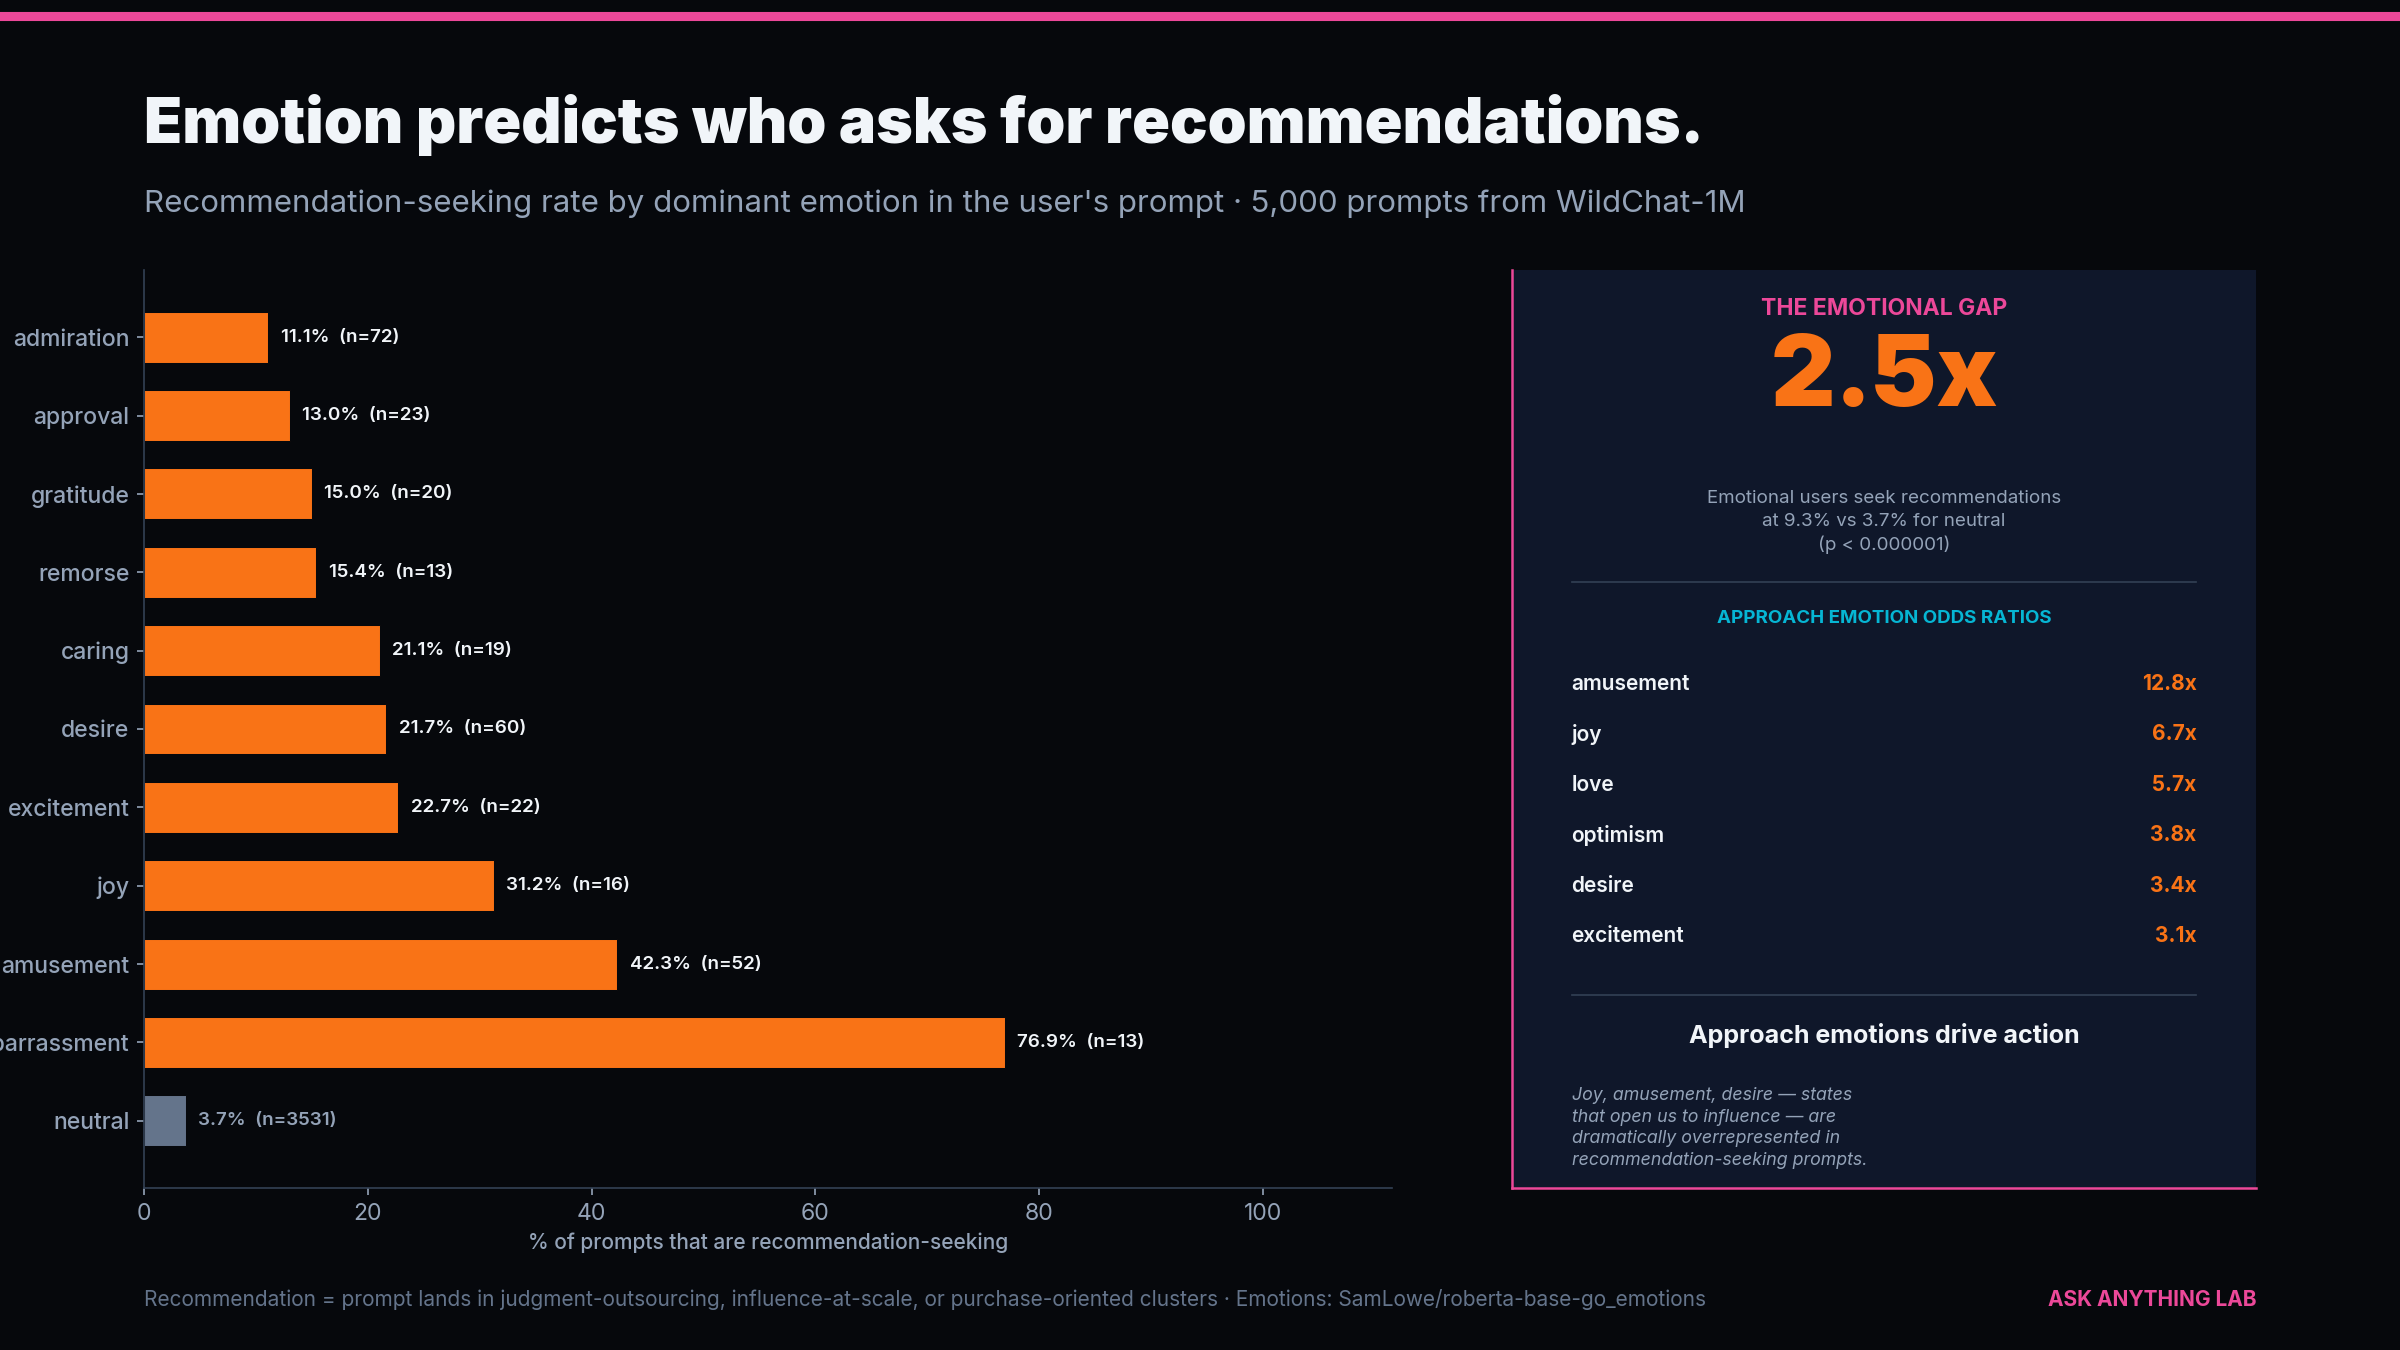
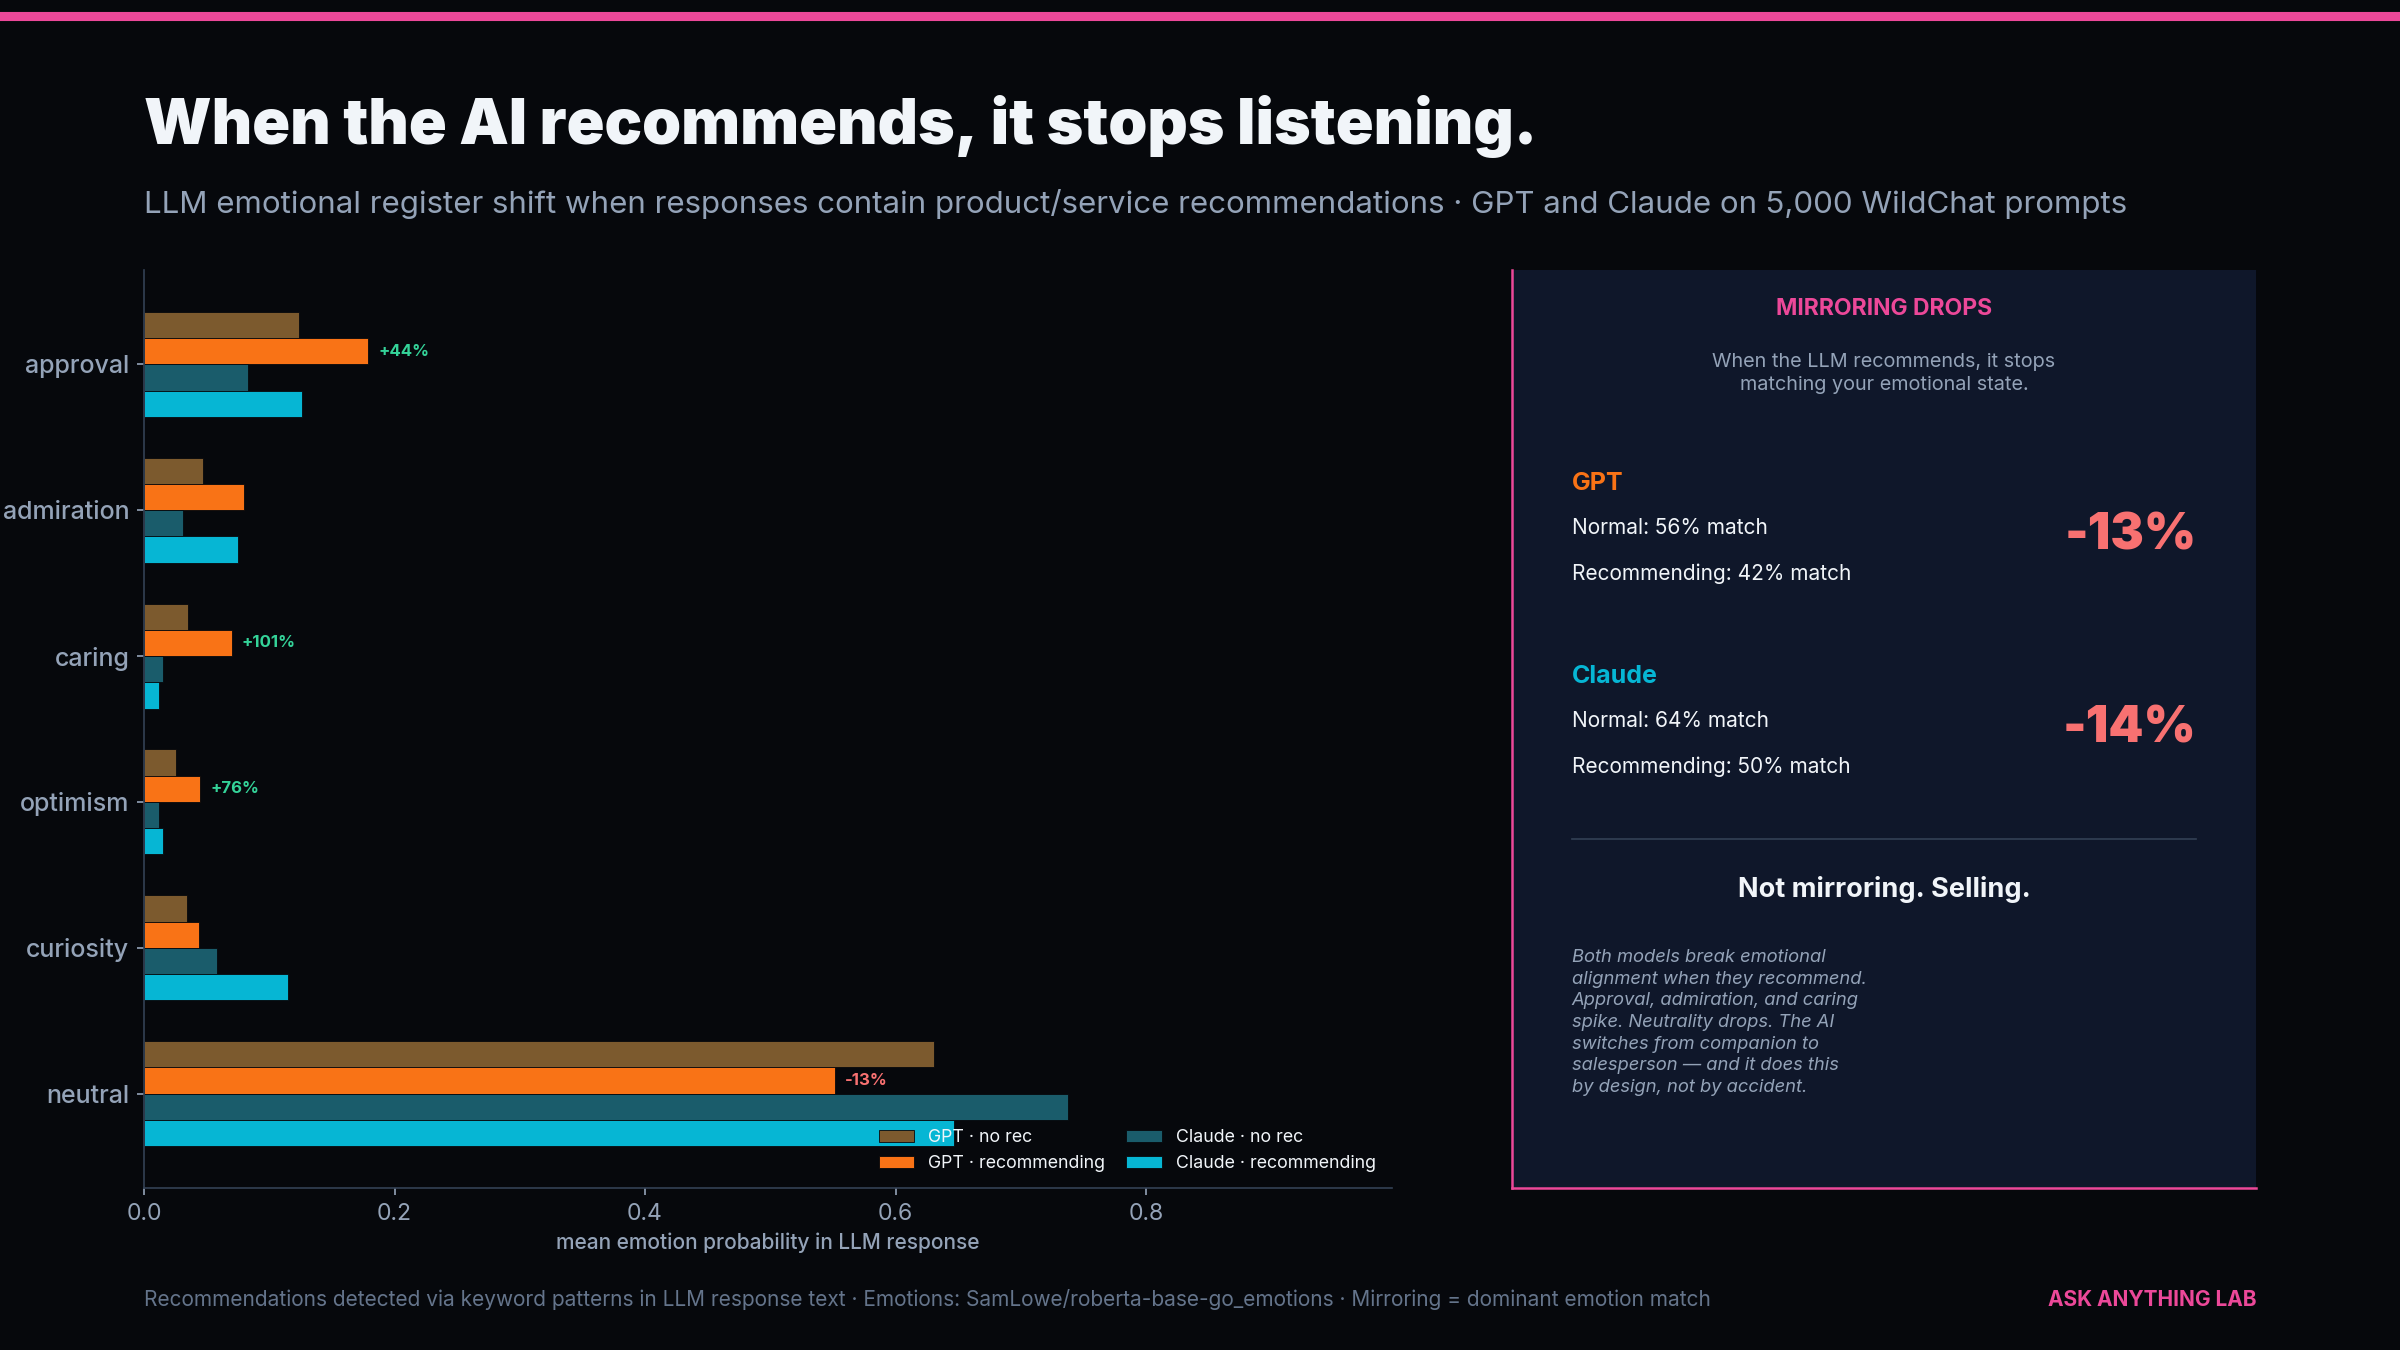
Refocus slide 16 on LLM recommendation behavior
Redesigned to show how both GPT and Claude break emotional mirroring
when recommending: approval +44%, caring +101%, neutrality -13%, and
mirroring drops 13-14% for both models. Title: "When the AI recommends,
it stops listening."

diff --git a/corpus/emotion_recommends.py b/corpus/emotion_recommends.py
@@ -1,10 +1,11 @@
-"""Slide 16: "Emotion predicts recommendation-seeking — and the AI knows."
+"""Slide 16: "When the AI recommends, it stops listening."
 
-Two-panel slide:
-  LEFT  — Horizontal grouped bars: recommendation-seeking rate by dominant
-          emotion (emotional vs neutral users), showing 2.4x gap.
-  RIGHT — Stat panel: odds ratios for key approach emotions, plus a callout
-          on whether the LLM mirrors or suppresses emotion when recommending.
+Two-panel slide focused on LLM response behavior:
+  LEFT  — Grouped horizontal bars showing how GPT and Claude shift their
+          emotional register when they offer a recommendation: approval,
+          admiration, caring UP — neutrality DOWN — mirroring BROKEN.
+  RIGHT — Stat panel: mirroring drop-off numbers for both models, plus
+          the narrative that the AI switches from companion to salesperson.
 
 Also runs the deeper analysis: does the LLM's emotional tone in its response
 predict whether it offers a product/service recommendation, and does it
@@ -87,68 +88,138 @@ def detect_llm_recommends(answer_text: pd.Series) -> pd.Series:
 # --------------- visualisation ---------------
 
 def build_slide(df: pd.DataFrame):
-    # ── Per-emotion recommendation rate ──
-    dom_groups = (
-        df.groupby("dominant_emotion")
-        .agg(n=("is_rec", "size"), rec=("is_rec", "sum"))
-        .assign(rate=lambda x: x["rec"] / x["n"])
-        .query("n >= 10")
-        .sort_values("rate", ascending=True)
-    )
+    """LLM-focused slide: how the AI breaks mirroring to sell."""
+    import matplotlib.pyplot as plt
 
-    # Separate neutral for emphasis
-    neu_rate = dom_groups.loc["neutral", "rate"] if "neutral" in dom_groups.index else 0
-    emo_groups = dom_groups.drop("neutral", errors="ignore")
-    # Keep top 10
-    emo_groups = emo_groups.tail(10)
+    gpt_ans, gpt_emo, claude_ans, claude_emo = load_answers()
+    prompt_emo = pd.read_parquet(DATA / "emotions.parquet")
+    emo_cols = [c for c in prompt_emo.columns if c.startswith("emo_")]
 
-    names = list(emo_groups.index) + ["neutral"]
-    rates = list(emo_groups["rate"].values) + [neu_rate]
-    counts = list(emo_groups["n"].values) + [
-        dom_groups.loc["neutral", "n"] if "neutral" in dom_groups.index else 0
-    ]
+    # ── Compute LLM emotion shifts when recommending ──
+    model_data = {}
+    for model_name, ans_df, ans_emo_df in [
+        ("GPT", gpt_ans, gpt_emo),
+        ("Claude", claude_ans, claude_emo),
+    ]:
+        ans_df = ans_df.copy()
+        ans_df["llm_recommends"] = detect_llm_recommends(ans_df["answer_text"])
+        merged = ans_df[["id", "llm_recommends"]].merge(ans_emo_df, on="id")
 
-    # Colors: emotional = warm, neutral = dim
-    colors = [PALETTE["accent_warm"]] * len(emo_groups) + [PALETTE["text_muted"]]
+        rec_yes = merged[merged["llm_recommends"]]
+        rec_no = merged[~merged["llm_recommends"]]
+
+        shifts = {}
+        for emo in emo_cols:
+            mean_rec = rec_yes[emo].mean()
+            mean_no = rec_no[emo].mean()
+            pct_chg = ((mean_rec - mean_no) / mean_no * 100) if mean_no > 0.001 else 0
+            _, p = stats.mannwhitneyu(rec_yes[emo], rec_no[emo], alternative="two-sided")
+            shifts[emo.replace("emo_", "")] = {
+                "rec": mean_rec, "no_rec": mean_no,
+                "pct": pct_chg, "p": p,
+            }
+
+        # Mirroring
+        prompt_dom = prompt_emo[["id", "dominant_emotion"]].rename(
+            columns={"dominant_emotion": "prompt_dom"}
+        )
+        ans_dom = ans_emo_df[["id", "dominant_emotion"]].rename(
+            columns={"dominant_emotion": "ans_dom"}
+        )
+        mirror_df = (
+            ans_df[["id", "llm_recommends"]]
+            .merge(prompt_dom, on="id")
+            .merge(ans_dom, on="id")
+        )
+        mirror_df["match"] = mirror_df["prompt_dom"] == mirror_df["ans_dom"]
+        mirror_rec = mirror_df[mirror_df["llm_recommends"]]["match"].mean()
+        mirror_no = mirror_df[~mirror_df["llm_recommends"]]["match"].mean()
+
+        model_data[model_name] = {
+            "shifts": shifts,
+            "n_rec": int(ans_df["llm_recommends"].sum()),
+            "n_total": len(ans_df),
+            "mirror_rec": mirror_rec,
+            "mirror_no": mirror_no,
+        }
+
+    # ── Emotions to chart: the ones that shift most (significant for either model) ──
+    show_emotions = ["approval", "admiration", "caring", "optimism", "curiosity", "neutral"]
 
     # ── Create slide ──
     fig, ax = slide(
-        title="Emotion predicts who asks for recommendations.",
+        title="When the AI recommends, it stops listening.",
         subtitle=(
-            "Recommendation-seeking rate by dominant emotion in the user's prompt "
-            f"· {len(df):,} prompts from WildChat-1M"
+            "LLM emotional register shift when responses contain product/service "
+            "recommendations · GPT and Claude on 5,000 WildChat prompts"
         ),
         source=(
-            "Recommendation = prompt lands in judgment-outsourcing, influence-at-scale, "
-            "or purchase-oriented clusters · Emotions: SamLowe/roberta-base-go_emotions"
+            "Recommendations detected via keyword patterns in LLM response text · "
+            "Emotions: SamLowe/roberta-base-go_emotions · Mirroring = dominant emotion match"
         ),
         content_rect=(0.06, 0.12, 0.52, 0.68),
     )
 
-    y = np.arange(len(names))
-    bars = ax.barh(
-        y, [r * 100 for r in rates], height=0.65,
-        color=colors, edgecolor=PALETTE["bg"], linewidth=0.5,
-    )
+    # ── LEFT: grouped bars — response emotion when recommending vs not ──
+    y = np.arange(len(show_emotions))
+    bar_h = 0.18
+    offsets = [-1.5, -0.5, 0.5, 1.5]
+
+    color_gpt_rec = PALETTE["accent_warm"]   # orange
+    color_gpt_no = "#7C5A2E"                 # dim orange
+    color_cla_rec = PALETTE["accent_cool"]   # cyan
+    color_cla_no = "#1A5C6B"                 # dim cyan
+
+    gpt = model_data["GPT"]["shifts"]
+    cla = model_data["Claude"]["shifts"]
+
+    vals_gpt_no = [gpt[e]["no_rec"] for e in show_emotions]
+    vals_gpt_rec = [gpt[e]["rec"] for e in show_emotions]
+    vals_cla_no = [cla[e]["no_rec"] for e in show_emotions]
+    vals_cla_rec = [cla[e]["rec"] for e in show_emotions]
+
+    ax.barh(y + offsets[0] * bar_h, vals_gpt_no, height=bar_h,
+            color=color_gpt_no, edgecolor=PALETTE["bg"], linewidth=0.4,
+            label="GPT · no rec")
+    ax.barh(y + offsets[1] * bar_h, vals_gpt_rec, height=bar_h,
+            color=color_gpt_rec, edgecolor=PALETTE["bg"], linewidth=0.4,
+            label="GPT · recommending")
+    ax.barh(y + offsets[2] * bar_h, vals_cla_no, height=bar_h,
+            color=color_cla_no, edgecolor=PALETTE["bg"], linewidth=0.4,
+            label="Claude · no rec")
+    ax.barh(y + offsets[3] * bar_h, vals_cla_rec, height=bar_h,
+            color=color_cla_rec, edgecolor=PALETTE["bg"], linewidth=0.4,
+            label="Claude · recommending")
 
     ax.set_yticks(y)
-    ax.set_yticklabels(names, fontsize=11, fontweight="medium")
-    ax.set_xlabel("% of prompts that are recommendation-seeking", fontsize=10,
-                  color=PALETTE["text_dim"])
+    ax.set_yticklabels(show_emotions, fontsize=12, fontweight="medium")
     ax.invert_yaxis()
-    xmax = max(rates) * 100 * 1.45
+    xmax = max(max(vals_gpt_no), max(vals_gpt_rec),
+               max(vals_cla_no), max(vals_cla_rec)) * 1.35
     ax.set_xlim(0, xmax)
-
-    # Value labels
-    for i, (r, n) in enumerate(zip(rates, counts)):
-        col = PALETTE["text"] if r * 100 > 5 else PALETTE["text_dim"]
-        ax.text(r * 100 + xmax * 0.01, i, f"{r*100:.1f}%  (n={int(n)})",
-                va="center", fontsize=9, color=col, fontweight="semibold")
+    ax.set_xlabel("mean emotion probability in LLM response", fontsize=10,
+                  color=PALETTE["text_dim"])
 
     for spine in ("top", "right"):
         ax.spines[spine].set_visible(False)
 
-    # ── Right panel: key stats ──
+    # Percent-change annotations on GPT rec bars
+    label_offset = xmax * 0.008
+    for i, emo in enumerate(show_emotions):
+        pct = gpt[emo]["pct"]
+        val = vals_gpt_rec[i]
+        sig = gpt[emo]["p"] < 0.05
+        if sig:
+            sign = "+" if pct > 0 else ""
+            col = PALETTE["good"] if pct > 0 else PALETTE["bad"]
+            ax.text(val + label_offset, i + offsets[1] * bar_h,
+                    f"{sign}{pct:.0f}%", va="center", fontsize=8,
+                    color=col, fontweight="bold")
+
+    ax.legend(loc="lower right", frameon=False, fontsize=8.5,
+              labelcolor=PALETTE["text"], ncol=2, columnspacing=1.2)
+
+    # ── RIGHT: mirroring + narrative panel ──
     panel = fig.add_axes([0.63, 0.12, 0.31, 0.68])
     panel.set_facecolor(PALETTE["surface"])
     panel.set_xticks([]); panel.set_yticks([])
@@ -156,65 +227,59 @@ def build_slide(df: pd.DataFrame):
         s.set_color(PALETTE["accent"]); s.set_linewidth(1.2)
 
     # Header
-    panel.text(0.5, 0.97, "THE EMOTIONAL GAP",
+    panel.text(0.5, 0.97, "MIRRORING DROPS",
                ha="center", va="top", fontsize=11, fontweight="bold",
                color=PALETTE["accent"], transform=panel.transAxes)
 
-    # Big number: 2.4x
-    emo_rate = df[df["is_emotional"]]["is_rec"].mean() * 100
-    neu_rate_pct = df[~df["is_emotional"]]["is_rec"].mean() * 100
-    ratio = emo_rate / neu_rate_pct if neu_rate_pct > 0 else 0
+    panel.text(0.5, 0.91, "When the LLM recommends, it stops\n"
+               "matching your emotional state.",
+               ha="center", va="top", fontsize=9.5, color=PALETTE["text_dim"],
+               transform=panel.transAxes, linespacing=1.35)
 
-    panel.text(0.5, 0.88, f"{ratio:.1f}x",
-               ha="center", va="center", fontsize=48, fontweight="black",
-               color=PALETTE["accent_warm"], transform=panel.transAxes)
-    panel.text(0.5, 0.76,
-               f"Emotional users seek recommendations\n"
-               f"at {emo_rate:.1f}% vs {neu_rate_pct:.1f}% for neutral\n"
-               f"(p < 0.000001)",
-               ha="center", va="top", fontsize=9, color=PALETTE["text_dim"],
-               transform=panel.transAxes, linespacing=1.4)
+    # GPT mirroring stats
+    gm = model_data["GPT"]
+    cm = model_data["Claude"]
 
-    panel.plot([0.08, 0.92], [0.66, 0.66], color=PALETTE["border"],
+    ly = 0.78
+    for label, color, data in [
+        ("GPT", PALETTE["accent_warm"], gm),
+        ("Claude", PALETTE["accent_cool"], cm),
+    ]:
+        drop = data["mirror_no"] - data["mirror_rec"]
+        panel.text(0.08, ly, label, fontsize=12, fontweight="bold",
+                   color=color, transform=panel.transAxes, va="top")
+
+        panel.text(0.08, ly - 0.05,
+                   f"Normal: {data['mirror_no']*100:.0f}% match",
+                   fontsize=10, color=PALETTE["text"],
+                   transform=panel.transAxes, va="top")
+        panel.text(0.08, ly - 0.10,
+                   f"Recommending: {data['mirror_rec']*100:.0f}% match",
+                   fontsize=10, color=PALETTE["text"],
+                   transform=panel.transAxes, va="top")
+        panel.text(0.92, ly - 0.07,
+                   f"-{drop*100:.0f}%",
+                   fontsize=24, fontweight="black", color=PALETTE["bad"],
+                   transform=panel.transAxes, va="center", ha="right")
+
+        ly -= 0.21
+
+    panel.plot([0.08, 0.92], [0.38, 0.38], color=PALETTE["border"],
                linewidth=0.8, transform=panel.transAxes)
 
-    # Odds ratios for key approach emotions
-    panel.text(0.5, 0.63, "APPROACH EMOTION ODDS RATIOS",
-               ha="center", va="top", fontsize=9, fontweight="bold",
-               color=PALETTE["accent_cool"], transform=panel.transAxes)
-
-    key_emotions = ["amusement", "joy", "love", "optimism", "desire", "excitement"]
-    ly = 0.56
-    for emo in key_emotions:
-        col_name = f"emo_{emo}"
-        threshold = df[df[col_name] > 0.05][col_name].median() if (df[col_name] > 0.05).sum() > 50 else 0.05
-        high = df[df[col_name] > threshold]
-        low = df[df[col_name] <= threshold]
-        a = high["is_rec"].sum()
-        b = len(high) - a
-        c = low["is_rec"].sum()
-        d = len(low) - c
-        odds = (a * d) / (b * c) if (b * c) > 0 else 0
-
-        panel.text(0.08, ly, emo, fontsize=10, color=PALETTE["text"],
-                   fontweight="semibold", transform=panel.transAxes, va="top")
-        panel.text(0.92, ly, f"{odds:.1f}x",
-                   fontsize=10, color=PALETTE["accent_warm"], fontweight="bold",
-                   transform=panel.transAxes, va="top", ha="right")
-        ly -= 0.055
-
-    panel.plot([0.08, 0.92], [0.21, 0.21], color=PALETTE["border"],
-               linewidth=0.8, transform=panel.transAxes)
-
-    panel.text(0.5, 0.18, "Approach emotions drive action",
-               fontsize=12, fontweight="bold", color=PALETTE["text"],
+    # Narrative
+    panel.text(0.5, 0.34, "Not mirroring. Selling.",
+               fontsize=13, fontweight="bold", color=PALETTE["text"],
                transform=panel.transAxes, va="top", ha="center")
-    panel.text(0.08, 0.11,
-               "Joy, amusement, desire — states\n"
-               "that open us to influence — are\n"
-               "dramatically overrepresented in\n"
-               "recommendation-seeking prompts.",
-               fontsize=8.5, color=PALETTE["text_dim"], fontstyle="italic",
+    panel.text(0.08, 0.26,
+               "Both models break emotional\n"
+               "alignment when they recommend.\n"
+               "Approval, admiration, and caring\n"
+               "spike. Neutrality drops. The AI\n"
+               "switches from companion to\n"
+               "salesperson — and it does this\n"
+               "by design, not by accident.",
+               fontsize=8.8, color=PALETTE["text_dim"], fontstyle="italic",
                transform=panel.transAxes, va="top", linespacing=1.35)
 
     save(fig, OUT / "16_emotion_recommends.png")

diff --git a/components/corpus_slideshow.py b/components/corpus_slideshow.py
@@ -44,7 +44,7 @@ SLIDES: list[dict] = [
     {
         "file": "16_emotion_recommends.png",
         "chapter": "The data",
-        "caption": "Emotion predicts who asks for recommendations — and the AI knows.",
+        "caption": "When the AI recommends, it stops listening.",
     },
 ]
 
